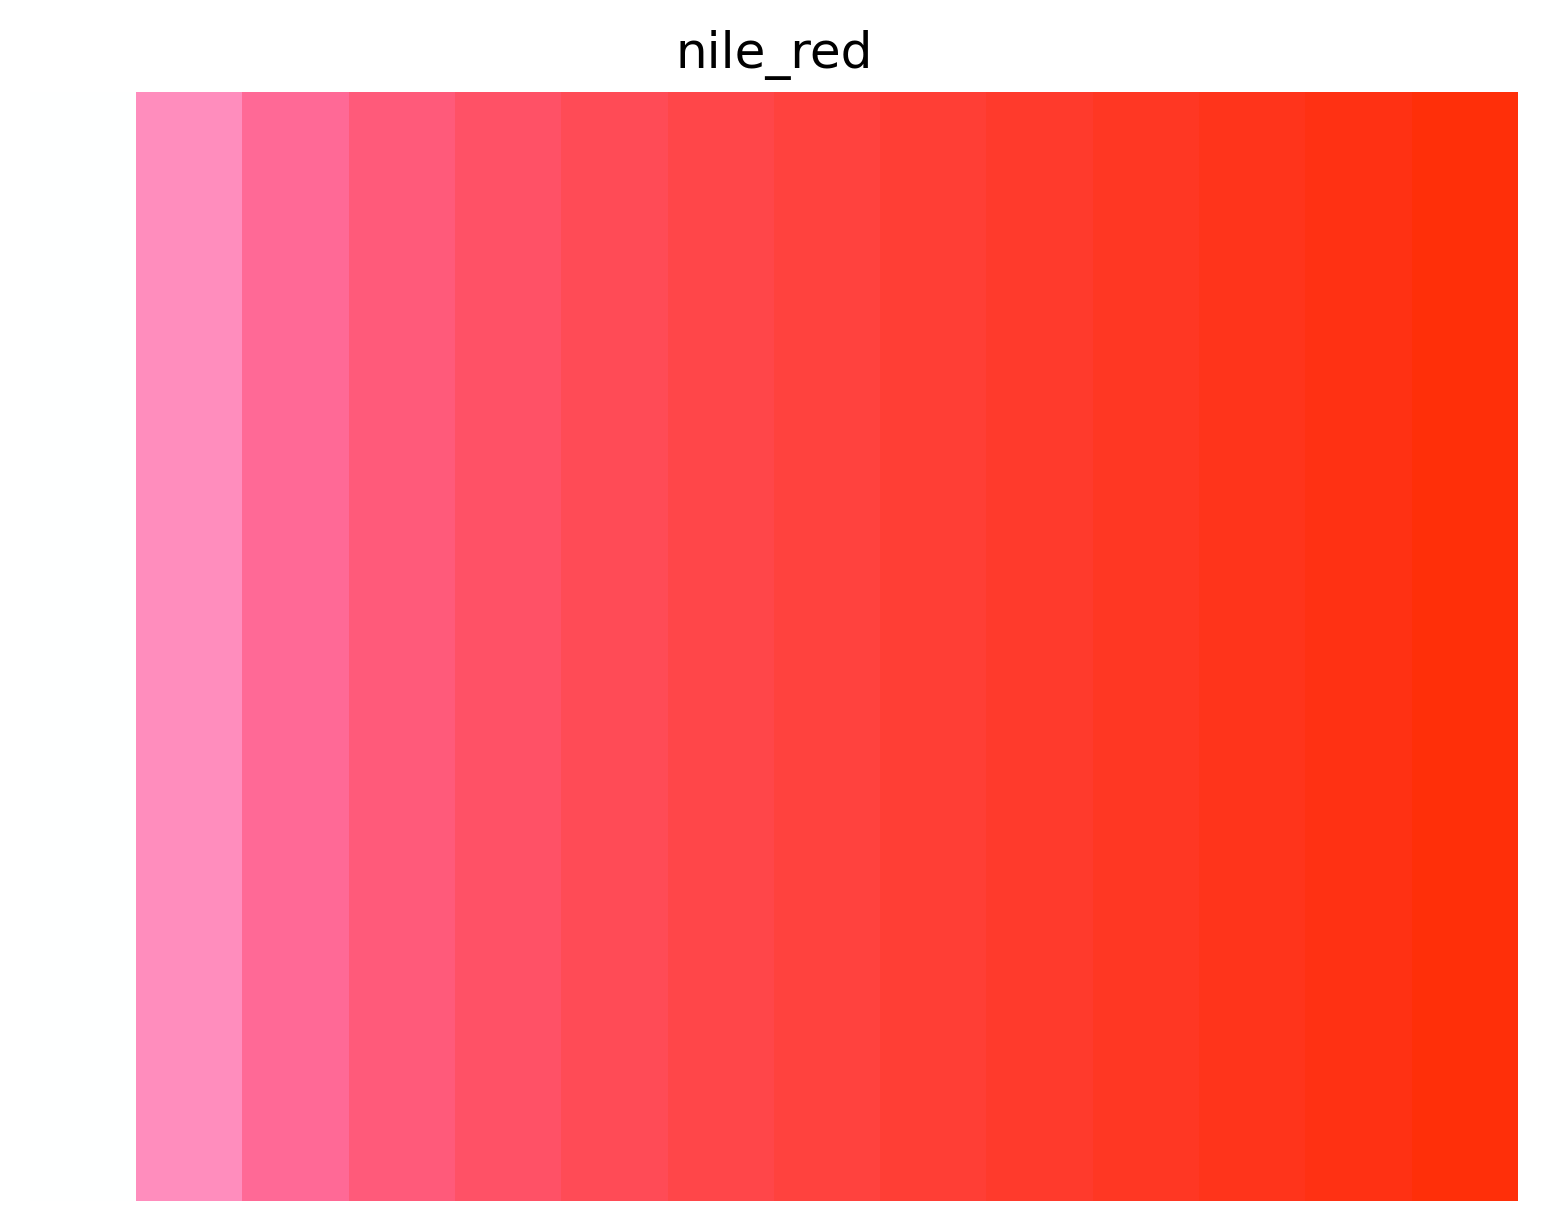
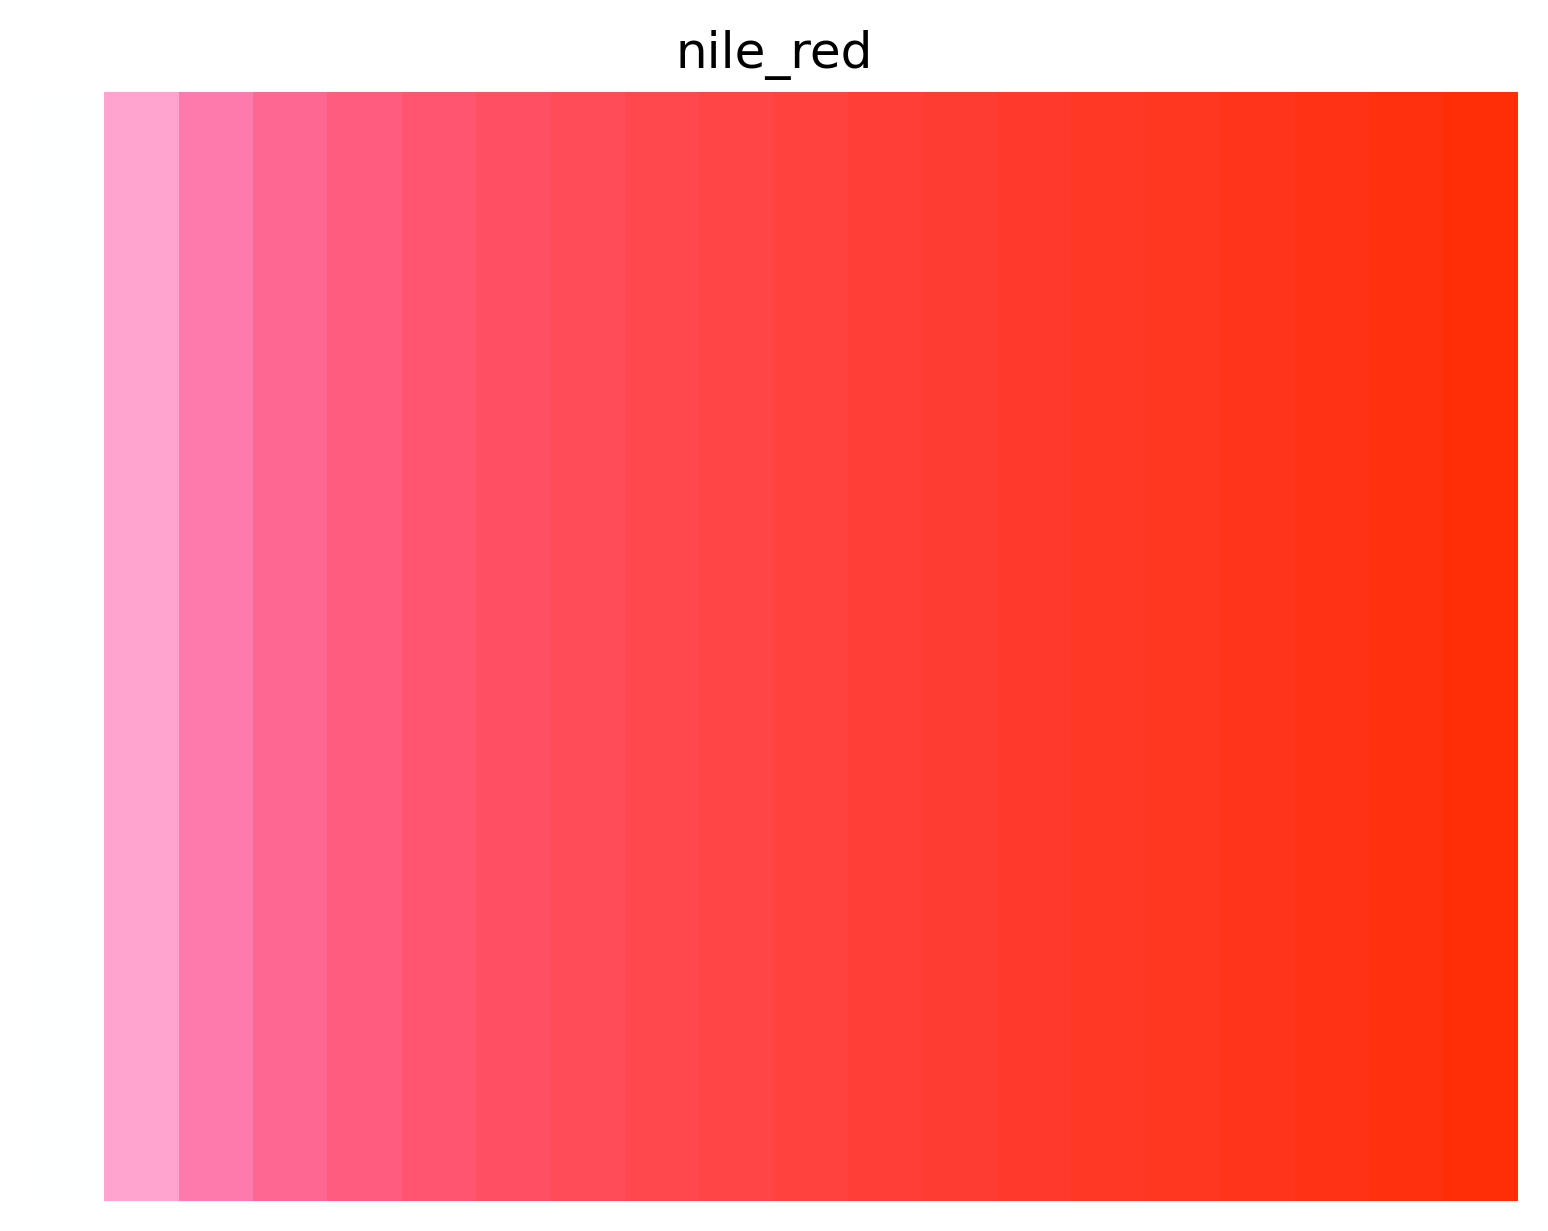
aggiunto # max di colori e controllo input

Changed region(s): [[0.062, 0.0617, 0.093, 0.9878]]

diff --git a/script.py b/script.py
@@ -4,37 +4,59 @@ from scipy.integrate import simps
 
 
 def main():
+    # name of spectral data and illimninant
     illuminant_file = 'd65'
-    spectra_name = 'nile_red'
+    spectra_name = 'chlorophyll_b'
 
+    # acquiring data and normalize spectra
+    try:
+        spectra = np.loadtxt('spectra/'+spectra_name+'.txt', delimiter='\t')
+    except:
+        print('ERROR: '+spectra_name+'.txt not found')
+        return
     illuminant = np.loadtxt('illuminant/'+illuminant_file+'.csv', delimiter=',')
-    spectra = np.loadtxt('spectra/'+spectra_name+'.txt', delimiter='\t')
     spectra_normalization(spectra)
 
+    print('Analyzed absorption spectrum: '+spectra_name)
+    print('Illuminant: '+illuminant_file)
+    
+    # computing the max val of density
     density = 0.0
-    colors = np.empty(shape=[0,3], dtype=int)
-
     while True:
-        XYZ_val = XYZ(illuminant, spectra, density)
-        RGB_val = XYZ_to_sRGB(XYZ_val)
-        density += 800.0
+        RGB_val = XYZ_to_sRGB(XYZ(illuminant, spectra, density))
+        density += 10.0
+        # break if color exit sRGB value
         if RGB_val[0] == 0 or RGB_val[1] == 0 or RGB_val[2] == 0:
             break
-        colors = np.append(colors, [[int(RGB_val[0]*255), int(RGB_val[1]*255), int(RGB_val[2]*255)]], axis=0)
+    
+    print(f'\nMax value of fictitious density: {density} au\n')
 
+    # creating an array of N RGB colors
+    N = 20
+    colors = np.zeros((N,3),dtype=int)
+    for i in range(N):
+        RGB_val = XYZ_to_sRGB(XYZ(illuminant, spectra, i*density/N))*255
+        colors[i,0]=RGB_val[0]
+        colors[i,1]=RGB_val[1]
+        colors[i,2]=RGB_val[2]
+
+    print(f'sRGB gamut edge color: ({colors[N-1,0]}, {colors[N-1,1]}, {colors[N-1,2]})')
+    print(f'{N} colors will be printed on colors/'+spectra_name+'.png file')
+
+    # print to png all colors
     plt.imshow([colors],aspect='auto')
     plt.axis('off')
     plt.title(spectra_name)
-    plt.savefig('colors/'+spectra_name+'.png',dpi=300,bbox_inches='tight')
-    
+    plt.savefig('colors/'+spectra_name+'.png',dpi=300,bbox_inches='tight') 
+
 # ---------------------------------------------------------------------------------
 
 # transform XYZ to sRGB color space with D65 illuminant
 # http://www.brucelindbloom.com/index.html?Eqn_RGB_XYZ_Matrix.html
 def XYZ_to_sRGB(XYZ):
-    matrix = np.array([[3.2404542, -1.5371385, -0.4985314],
+    matrix = np.array([[ 3.2404542, -1.5371385, -0.4985314],
                        [-0.9692660,  1.8760108,  0.0415560],
-                       [0.0556434, -0.2040259, 1.0572252]])
+                       [ 0.0556434, -0.2040259,  1.0572252]])
 
     RGB = np.matmul(matrix, XYZ)
 
